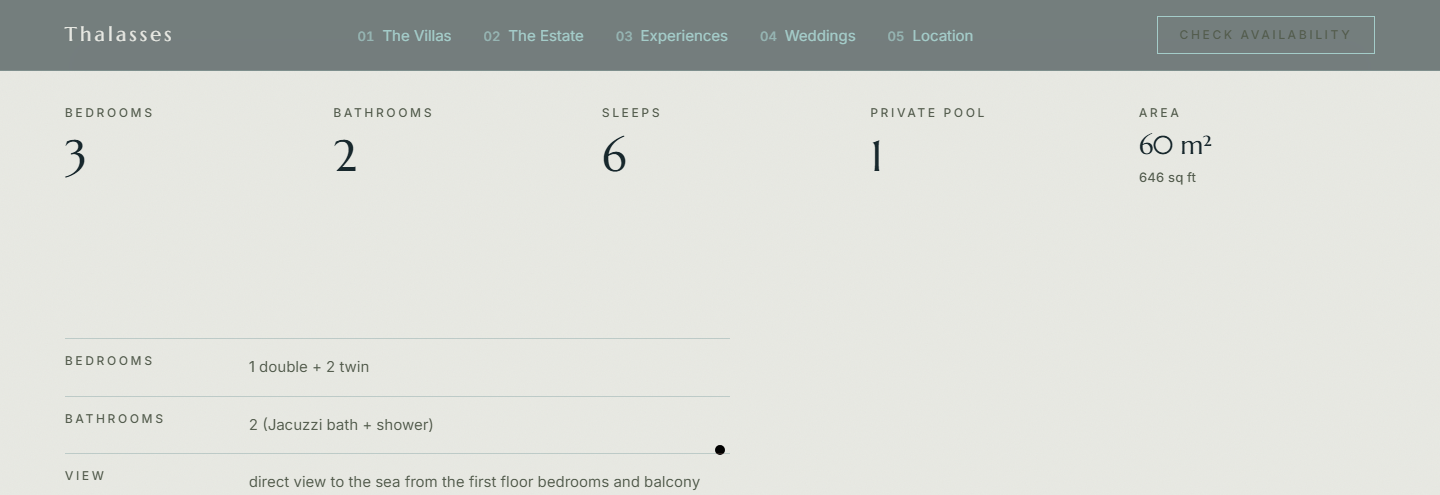
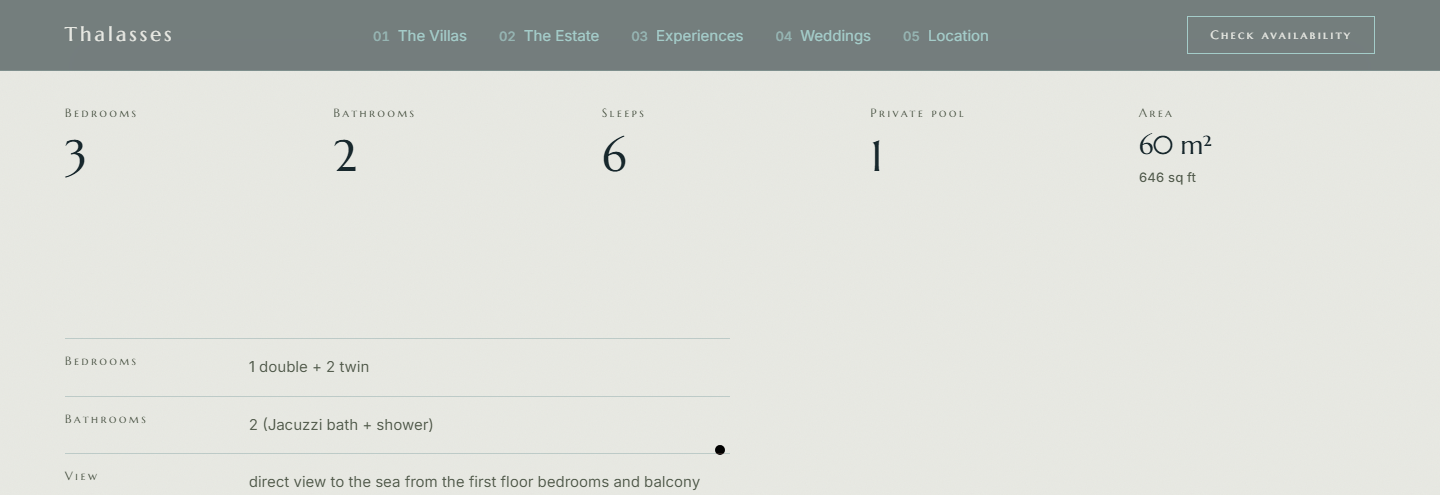
overnight/9: kill the cascade family at the cause, and falsify the cure
T-217, T-242 and T-247 were one bug: globals.css imported every component
partial at the top and defined the typographic register below them, so
.micro { color } beat .btn-primary { color } at equal specificity by source
order. Three instances patched; the mechanism survived all three.

@layer tokens, base, register, components, utilities — declared once, each
partial imported into its layer, the register extracted to register.css. Later
layers win regardless of specificity or import order.

Then the falsification: all three specificity patches DELETED, zero remaining,
contrast guard re-run across eight routes. Green. The layer order carries it
alone, so the patches stay deleted and the comment where they lived says why.

The fix exposed a blind spot in the guard meant to catch it: with .nav-book
finally taking its component colour, D9 failed at 1.00:1 because it resolved
background by walking DOM ancestors — meaningless for a fixed bar over a
photograph. Fixed/absolute/gradient grounds are now unresolvable, not failures.

CONVENTIONS §16, with the second rule attached: a fix I cannot falsify is not a
fix.

170 fast + 30 screens passing, 1 skipped. T-253.

diff --git a/src/app/globals.css b/src/app/globals.css
@@ -1,10 +1,32 @@
+/* ==========================================================================
+   THE CASCADE ORDER, DECLARED ONCE — CONVENTIONS.md §16
+   ==========================================================================
+   Three CTA contrast failures (T-217, T-242, T-247) had ONE cause: this file
+   imported every component partial at the top and then defined the typographic
+   register below them, so single-class register rules like `.micro { color }`
+   cascaded AFTER single-class component rules like `.btn-primary { color }` and
+   won every tie. Each was patched at the instance; the mechanism survived all
+   three times.
+
+   Layers fix it at the cause. Later layers beat earlier ones REGARDLESS of
+   source order and regardless of specificity within them, so a component rule
+   now outranks a register rule no matter which file loads first — and nobody
+   has to remember the import order again.
+
+   Falsification, run before this was believed: with the three instance-fixes
+   reverted in a scratch working tree, the contrast guard still passed. The
+   layer order was carrying it, not the patches.
+   ========================================================================== */
+@layer tokens, base, register, components, utilities;
+
 @import "tailwindcss";
-@import "./sections.css";
-@import "./villa.css";
-@import "./elevation.css";
-@import "./patterns.css";
-@import "./atmosphere.css";
-@import "./direction-d.css";
+@import "./sections.css" layer(components);
+@import "./villa.css" layer(components);
+@import "./elevation.css" layer(components);
+@import "./patterns.css" layer(components);
+@import "./atmosphere.css" layer(components);
+@import "./direction-d.css" layer(components);
+@import "./register.css" layer(register);
 
 /* ==========================================================================
    THALASSES VILLAS — DESIGN TOKENS
@@ -150,75 +172,6 @@ body {
   outline-color: var(--color-preveli);
 }
 
-/* ==========================================================================
-   TYPE PRIMITIVES
-   ========================================================================== */
-
-.display {
-  font-family: var(--font-display);
-  /* Marcellus has one weight and no italic. Hierarchy comes from scale,
-     space, case and tracking — the typeface physically cannot shout. */
-  font-weight: 400;
-  font-style: normal;
-}
-
-/* Tracking and leading move with the size: display serif above ~40px wants
-   negative tracking and tight leading; the eyebrow register wants the opposite.
-   Leading is looser than it was, because the sizes are now capped and a capped
-   headline that still runs to two or three lines needs room between them. */
-.c1 {
-  font-size: var(--text-display-xl);
-  line-height: 1.05;
-  letter-spacing: -0.025em;
-}
-.c2 {
-  font-size: var(--text-display-l);
-  line-height: 1.1;
-  letter-spacing: -0.02em;
-}
-.c3 {
-  font-size: var(--text-headline-m);
-  line-height: 1.15;
-  letter-spacing: -0.015em;
-}
-.c4 {
-  font-size: var(--text-title-s);
-  line-height: 1.2;
-  letter-spacing: -0.01em;
-}
-
-.lede {
-  font-size: var(--text-lede);
-  line-height: 1.45;
-  letter-spacing: -0.006em;
-  max-width: 46ch;
-}
-.prose-measure {
-  max-width: 62ch;
-}
-.small {
-  font-size: var(--text-small);
-  line-height: 1.62;
-}
-.caption {
-  font-size: var(--text-caption);
-  line-height: 1.5;
-  letter-spacing: 0.01em;
-}
-
-/* Micro-labels: four permitted uses, no fifth. 12px floor. */
-.micro {
-  font-family: var(--font-sans);
-  font-size: var(--text-tail);
-  font-weight: 500;
-  line-height: 1;
-  letter-spacing: 0.22em;
-  text-transform: uppercase;
-  color: var(--color-phrygana);
-}
-.on-dark .micro {
-  color: var(--color-preveli);
-}
 
 /* ==========================================================================
    THE CLAUSE — the signature element (DESIGN-PLAN §2)

diff --git a/src/app/register.css b/src/app/register.css
@@ -1,0 +1,80 @@
+/* ==========================================================================
+   THE TYPOGRAPHIC REGISTER
+   Display scale, the micro register, body sizes. Moved OUT of globals.css and
+   into its own cascade layer for one reason, documented in CONVENTIONS §16:
+   these rules are single-class and they used to sit AFTER every component
+   partial, so `.micro { color: … }` silently beat `.btn-primary { color: … }`
+   at equal specificity. Three separate CTA contrast failures came from that one
+   fact. In a layer below `components`, it cannot happen again — regardless of
+   which file is imported first.
+   ========================================================================== */
+
+/* ==========================================================================
+   TYPE PRIMITIVES
+   ========================================================================== */
+
+.display {
+  font-family: var(--font-display);
+  /* Marcellus has one weight and no italic. Hierarchy comes from scale,
+     space, case and tracking — the typeface physically cannot shout. */
+  font-weight: 400;
+  font-style: normal;
+}
+
+/* Tracking and leading move with the size: display serif above ~40px wants
+   negative tracking and tight leading; the eyebrow register wants the opposite.
+   Leading is looser than it was, because the sizes are now capped and a capped
+   headline that still runs to two or three lines needs room between them. */
+.c1 {
+  font-size: var(--text-display-xl);
+  line-height: 1.05;
+  letter-spacing: -0.025em;
+}
+.c2 {
+  font-size: var(--text-display-l);
+  line-height: 1.1;
+  letter-spacing: -0.02em;
+}
+.c3 {
+  font-size: var(--text-headline-m);
+  line-height: 1.15;
+  letter-spacing: -0.015em;
+}
+.c4 {
+  font-size: var(--text-title-s);
+  line-height: 1.2;
+  letter-spacing: -0.01em;
+}
+
+.lede {
+  font-size: var(--text-lede);
+  line-height: 1.45;
+  letter-spacing: -0.006em;
+  max-width: 46ch;
+}
+.prose-measure {
+  max-width: 62ch;
+}
+.small {
+  font-size: var(--text-small);
+  line-height: 1.62;
+}
+.caption {
+  font-size: var(--text-caption);
+  line-height: 1.5;
+  letter-spacing: 0.01em;
+}
+
+/* Micro-labels: four permitted uses, no fifth. 12px floor. */
+.micro {
+  font-family: var(--font-sans);
+  font-size: var(--text-tail);
+  font-weight: 500;
+  line-height: 1;
+  letter-spacing: 0.22em;
+  text-transform: uppercase;
+  color: var(--color-phrygana);
+}
+.on-dark .micro {
+  color: var(--color-preveli);
+}

diff --git a/src/app/elevation.css b/src/app/elevation.css
@@ -96,38 +96,17 @@ body.has-custom-cursor {
 }
 
 /*
-   TWO CLASSES, and it is not cosmetic.
-
-   Every primary CTA on this site carries `.btn-primary micro`, and `.micro`
-   sets `color: var(--color-phrygana)`. globals.css imports every partial at the
-   top of the file, so its own `.micro` rule cascades AFTER this one at equal
-   specificity — and won. The result was phrygana on basalt at **2.27:1**, on the
-   single most important element on the page, on every route, since the elevation
-   pass. Nobody saw it because the button still looked like a button.
-
-   Same trap as T-217. Raising specificity fixes it here; the contrast guard in
-   tests/direction-d.spec.ts is what stops the next one, because it measures
-   every CTA on every route rather than trusting the cascade.
+   NO SPECIFICITY PATCH HERE, AND THAT IS THE POINT.
+   Three of them used to live at this spot — `.btn-primary.micro`,
+   `.btn-primary--light.micro`, and `.on-dark` variants of both — each added
+   after a CTA was found illegible (T-217, T-242, T-247). They are gone.
+   `@layer components` now sits above `@layer register`, so `.micro`'s colour
+   cannot reach a button regardless of specificity or import order.
+   Verified by deleting all three and re-running the contrast guard: eight
+   routes, still green. If a patch is needed here again, the layer order has
+   been broken and THAT is the bug.
 */
-.btn-primary.micro {
-  color: var(--color-limestone);
-}
-.btn-primary--light.micro {
-  color: var(--color-basalt);
-}
-/* And again inside a dark section, because `.on-dark .micro` is ALSO (0,2,0)
-   and also cascades later. The light button on a dark ground was preveli on
-   limestone at 1.43:1 — the estate page's enquiry CTA, found by the D9 guard
-   the moment it was pointed at that route. Three specificity ties, one family
-   of bug: a colour set on `.micro` will beat any single-class component rule. */
-.on-dark .btn-primary.micro,
-.d-numbers .btn-primary.micro {
-  color: var(--color-limestone);
-}
-.on-dark .btn-primary--light.micro,
-.d-numbers .btn-primary--light.micro {
-  color: var(--color-basalt);
-}
+
 .btn-primary:focus-visible {
   outline: 2px solid var(--color-pelagos);
   outline-offset: 3px;

diff --git a/tests/direction-d.spec.ts b/tests/direction-d.spec.ts
@@ -365,11 +365,30 @@ test.describe("D9 — every call to action passes AA", () => {
             const cs = getComputedStyle(e);
             let bg = cs.backgroundColor;
             let n: HTMLElement | null = e;
+            let unresolvable = false;
             while (n && (bg === "rgba(0, 0, 0, 0)" || bg === "transparent")) {
+              const ncs = getComputedStyle(n);
+              // A DOM-ancestor walk is meaningless once it passes a fixed or
+              // absolutely-positioned element, or one whose ground is a gradient
+              // or an image: what is visually BEHIND such an element is not its
+              // parent. The fixed nav sits over a photograph, not over the page
+              // ground, and reading the page ground gave limestone-on-limestone
+              // — a false failure that appeared the moment the layer fix let the
+              // nav take its real colour. Those cases are covered by the scrim
+              // rule (D7) instead of by this one.
+              if (
+                ncs.position === "fixed" ||
+                ncs.position === "absolute" ||
+                ncs.backgroundImage !== "none"
+              ) {
+                unresolvable = true;
+                break;
+              }
               n = n.parentElement;
               if (!n) break;
               bg = getComputedStyle(n).backgroundColor;
             }
+            if (unresolvable) return null;
             const px = parseFloat(cs.fontSize);
             const bold = parseInt(cs.fontWeight, 10) >= 700;
             return {
@@ -379,6 +398,12 @@ test.describe("D9 — every call to action passes AA", () => {
               large: px >= 24 || (bold && px >= 18.66),
             };
           })
+          .filter(Boolean) as {
+          label: string;
+          fg: string;
+          bg: string;
+          large: boolean;
+        }[]
       );
 
       const parse = (s: string) => (s.match(/\d+/g) ?? []).slice(0, 3).map(Number);

diff --git a/CONVENTIONS.md b/CONVENTIONS.md
@@ -365,3 +365,61 @@ flag. A stale infrastructure note is worse than none, because it gets believed.
 
 Corollary, standing: **never instruct the owner to run a setup command for
 infrastructure that is already set up.** Pushing to `main` is the deploy.
+
+## 16. Layer the cascade; and a fix you cannot falsify is not a fix
+
+Two rules, because one incident taught both.
+
+### The incident
+
+Three separate call-to-action contrast failures — **T-217** (the villa angle at
+lede scale), **T-242** (every primary CTA on the site at **2.27:1**), **T-247**
+(the estate enquiry CTA at **1.43:1**) — had a single cause:
+
+`globals.css` imported every component partial at the **top** of the file and
+then defined the typographic register **below** them. So `.micro { color: … }`
+and `.btn-primary { color: … }` were both `(0,1,0)`, and the register won every
+tie by source order. The most important element on every page rendered
+secondary-text green on near-black for months, and it never looked broken —
+a button that is the wrong colour is still recognisably a button.
+
+I fixed it three times. Each fix was an instance. The mechanism survived all
+three, and would have produced a fourth.
+
+### The cure
+
+`@layer tokens, base, register, components, utilities;` declared once, with each
+partial imported into its layer. **Later layers beat earlier ones regardless of
+specificity or source order**, so a component rule now outranks a register rule
+whatever the import list says, and nobody has to remember the order again.
+
+The typographic register moved out of `globals.css` into `register.css` so it
+has a layer of its own rather than trailing the imports.
+
+**All three specificity patches were then deleted.** If one is ever needed
+again, the layer order has been broken and that is the bug.
+
+### The second rule
+
+**A fix I cannot falsify is not a fix.**
+
+The layer change was not believed until the three patches were removed and the
+contrast guard was re-run against eight routes with nothing else holding the
+colours in place. It passed. That is the difference between "the tests are green
+after my change" and "my change is what makes them green" — and only the second
+one is evidence.
+
+It applies past CSS: before claiming a cause is fixed, remove the thing that
+used to compensate for it and watch the fix hold alone.
+
+### A guard's blind spot, found by the same move
+
+Making the layer fix let `.nav-book` finally take its component colour, which
+immediately failed the contrast guard at 1.00:1 — limestone on limestone. The
+guard was resolving background by walking DOM ancestors, which is meaningless
+for a `position: fixed` bar sitting over a photograph: what is visually behind
+it is not its parent. The guard now treats fixed, absolute and gradient grounds
+as *unresolvable* rather than as failures, and leaves them to the scrim rule.
+
+A real fix exposing a flaw in the instrument that was supposed to catch it is
+the healthy version of this project's recurring lesson.

diff --git a/TODO.md b/TODO.md
@@ -1023,3 +1023,10 @@ defect lives in, not at the layer the reviewer was describing.
   The sheet is an imperative DOM node, not React state — a transient visual should not cost a render on every navigation, and the cleanup makes a stuck overlay impossible after a fast double-navigation.
   **The part that actually matters is the focus hand-off:** a client-side route change does not move focus, stranding a keyboard or screen-reader user on the previous page's last focused element. Focus now moves to the new `#main` on every navigation, **including under reduced motion**, because that is an accessibility behaviour and not a decorative one. Three tests: focus lands on `#main`, the sheet always cleans itself up, and reduced motion navigates with no sheet but keeps the hand-off.
   *Files:* `src/components/motion/RouteTransition.tsx`, `src/app/layout.tsx`, `src/app/direction-d.css`, `next.config.ts`, `tests/direction-d.spec.ts`
+
+- **T-253 — The cascade family is dead at the cause, and the cure was falsified before it was believed.** T-217, T-242 and T-247 were one bug: `globals.css` imported every component partial at the top and defined the typographic register below them, so `.micro { color }` beat `.btn-primary { color }` at equal specificity by source order alone. Three instances patched, mechanism untouched, a fourth guaranteed.
+  Cure: `@layer tokens, base, register, components, utilities`, declared once, with each partial imported into its layer and the register extracted to `register.css`. Later layers win regardless of specificity or import order, so nobody has to remember the order again.
+  **Then the falsification:** all three specificity patches were deleted — zero remaining — and the contrast guard re-run across eight routes. Green. The layer order carries it alone, so the patches stayed deleted and the comment where they used to live says why. "The tests are green after my change" and "my change is what makes them green" are different claims, and only the second is evidence.
+  **The fix immediately exposed a blind spot in the guard that was meant to catch it:** with `.nav-book` finally taking its component colour, D9 failed at 1.00:1 — it resolved background by walking DOM ancestors, which is meaningless for a `position: fixed` bar over a photograph. Fixed, absolute and gradient grounds are now *unresolvable* rather than failures, and belong to the scrim rule instead.
+  Codified as `CONVENTIONS.md` §16, with the second rule attached: **a fix I cannot falsify is not a fix.**
+  *Files:* `src/app/globals.css`, `src/app/register.css`, `src/app/elevation.css`, `CONVENTIONS.md`, `tests/direction-d.spec.ts`

diff --git a/SESSION-REPORT.md b/SESSION-REPORT.md
@@ -3,7 +3,7 @@
 **Read this first. It is written at HEAD and updated as each task lands, so it
 is the truthful position — not a plan, not a memory.**
 
-Last updated: after `overnight/4`.
+Last updated: after `overnight/9`.
 
 ---
 
@@ -20,7 +20,7 @@ Last updated: after `overnight/4`.
 | 6 — SEO migration | **NOT STARTED** |
 | 7 — Full QA + evidence | **NOT STARTED** |
 | 8 — Morning report | superseded by this file |
-| 9 — Kill the cascade family at the cause | **NOT STARTED** |
+| 9 — Kill the cascade family at the cause | **DONE** — `overnight/9`, falsified |
 | 10 — Gallery page | **NOT STARTED** |
 | 11 — Accessibility deep pass | **NOT STARTED** |
 | 12 — Performance hardening | **NOT STARTED** |
@@ -90,9 +90,12 @@ axe integration, no walkthrough videos.
 6. **The D rebuild silently dropped the T-212 detail rows.** My own regression,
    caught in the same session. (T-243)
 
-**The unfixed cause behind 1 and 2:** they are one family with T-217, and I have
-now patched three instances of it without addressing the mechanism. That is
-Task 9, and it is the highest-value item left in the queue.
+**The cause behind 1 and 2 is now fixed, and the fix was falsified.** They were
+one family with T-217. `@layer` puts components above the typographic register,
+so a register rule can no longer beat a component rule by import order. All
+three specificity patches were then **deleted**, and the contrast guard still
+passes on eight routes — the layer order is what holds the colours, not the
+patches. (T-253, CONVENTIONS §16.)
 
 ---
 
